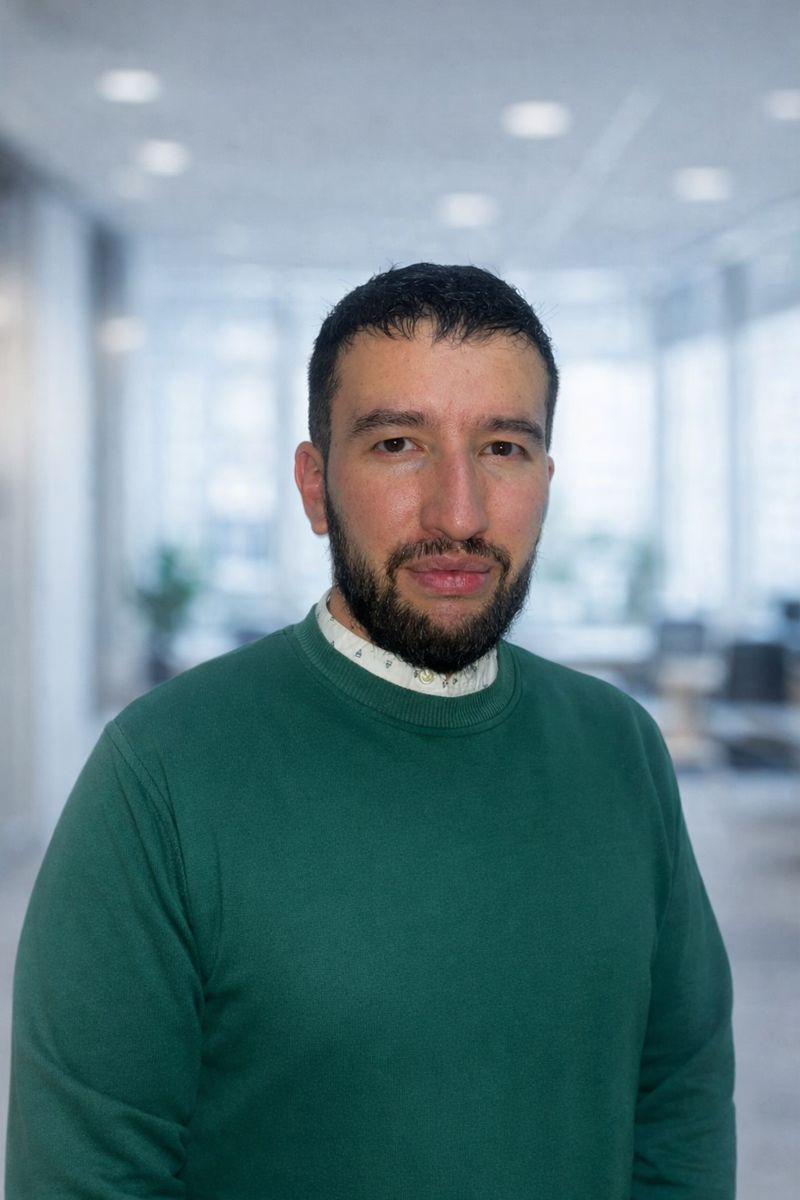
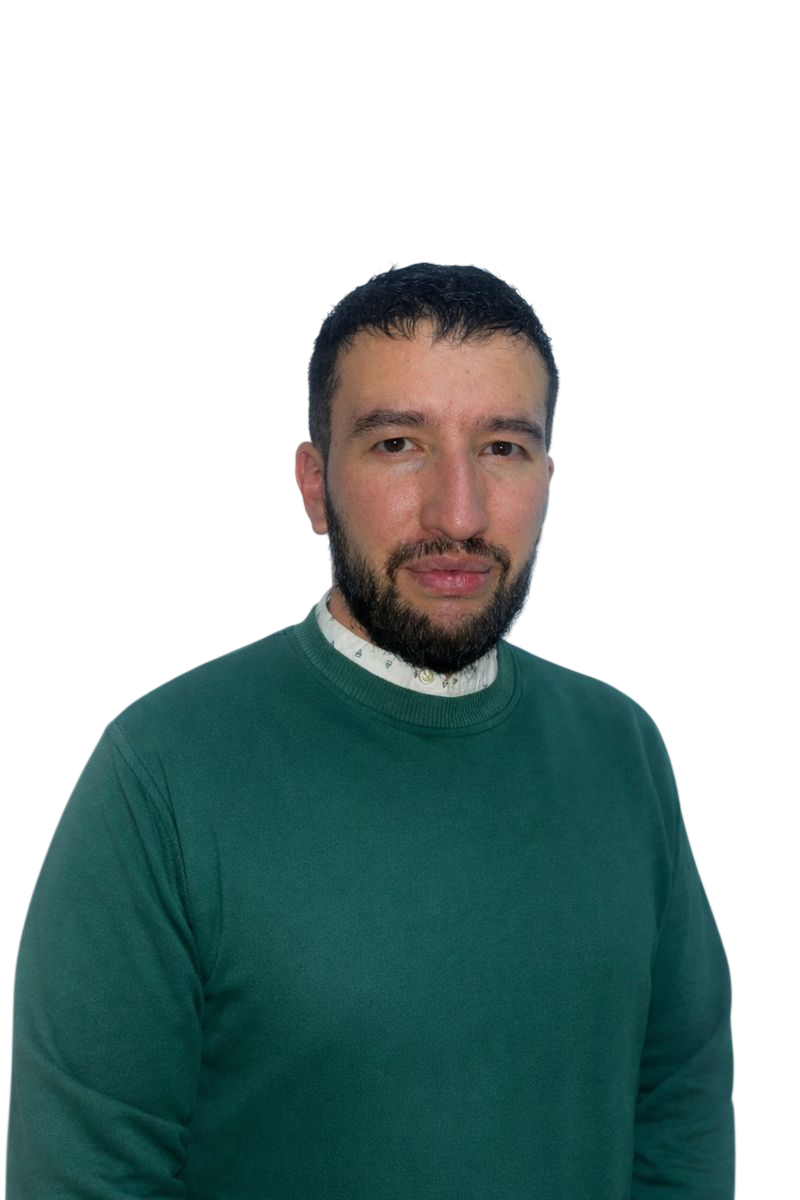
Prueva styles

diff --git a/CSS/index-styles.css b/CSS/index-styles.css
@@ -469,3 +469,77 @@ body {
 
 
 }
+
+
+/* !Navbar Pruevas*/
+
+/*logo y navbar */
+.logoimg {
+    width: auto;
+    height: 7vh;
+    margin-left: 40px;
+}
+
+#navbarNavDropdown {
+    justify-content: space-between;
+    color: #11212D;
+}
+
+.navbar .nav-link{
+    color: #11212D;
+    margin: 15px;
+    font-weight: 600;
+    padding: 4px;
+    border-top: 2px solid transparent;
+    border-bottom: 2px solid transparent;
+    transition: color .3s ease, border-color .3s ease;
+}
+
+.navbar .nav-link:hover,
+.navbar .nav-link.active{
+    color: #025656;
+    border-top-color: #025656;
+    border-bottom-color: #025656;
+    transform: scale(1.08);
+}
+
+.navbar .nav-link:hover{
+    color: #025656;
+    border-top-color: #025656;
+    border-bottom-color: #025656;
+    transform: scale(1.08);
+}
+
+.iconos a{
+    text-decoration: none;
+    outline: none;
+}
+
+.iconos {
+    text-decoration: none;
+    font-size: 1.7rem; /* Tamaño de los iconos*/
+    color: #025656;
+    transition: transform 0.3s ease, color 0.3s ease;
+}
+
+.iconos:hover, #modo:hover{
+    fill: #11212D;
+    transform: scale(1.15);
+}
+
+.iconos-navbar{
+    display: flex;
+    align-items: center;
+    gap: 30px;
+    margin-left: 30px; /* Separa los iconos del menu */
+    margin-right: 30px;
+}
+
+.navbar {
+    background-color: white;
+    box-shadow: 0 4px 2px #02565696;
+}
+
+.bi-person {
+    font-size: 2.1rem;
+}
